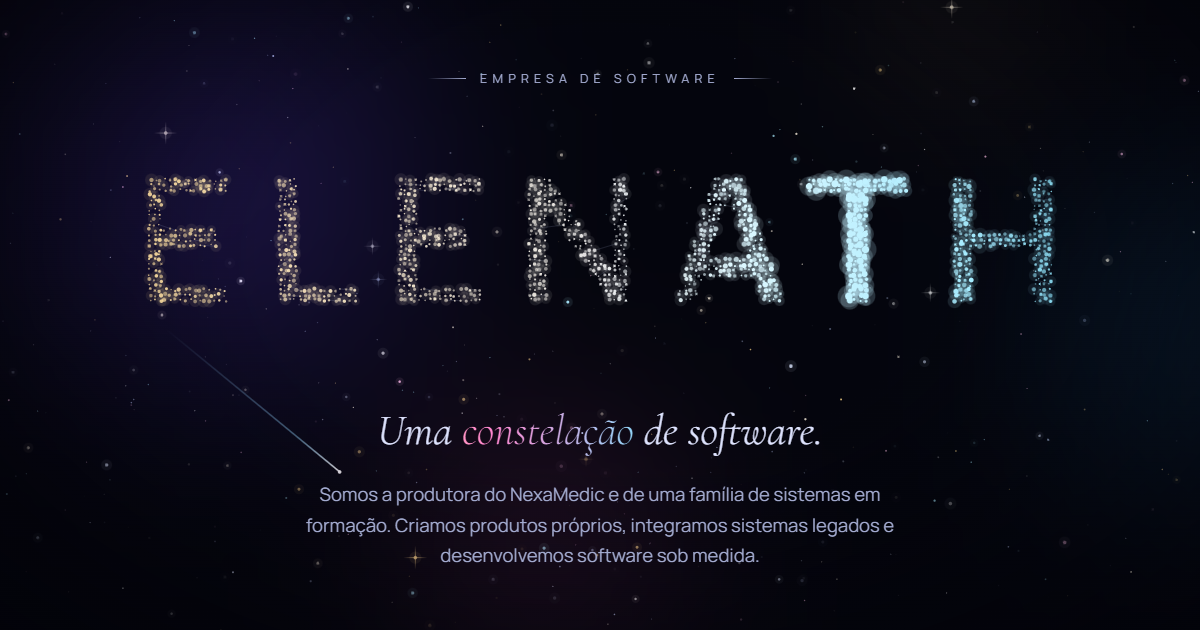
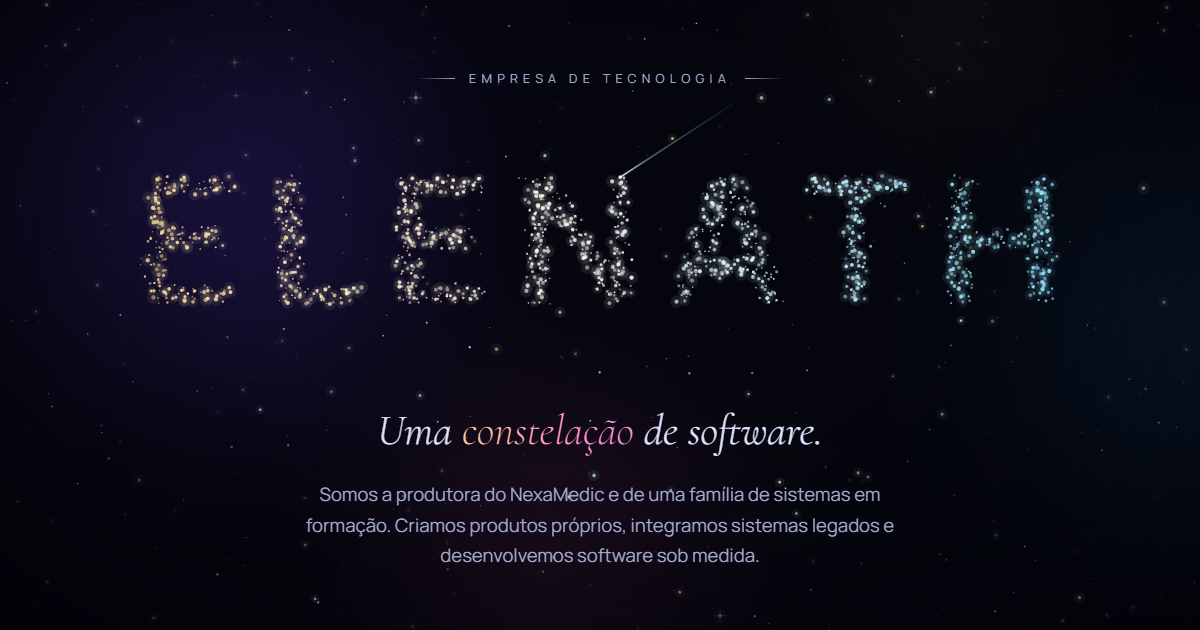
feat: Elenath como empresa de tecnologia

diff --git a/index.html b/index.html
@@ -4,7 +4,7 @@
 <meta charset="utf-8">
 <meta name="viewport" content="width=device-width, initial-scale=1, viewport-fit=cover">
 <title>Elenath · Uma constelação de software</title>
-<meta name="description" content="A Elenath é a empresa de software por trás do NexaMedic. Criamos produtos próprios, integramos sistemas legados e desenvolvemos software sob medida.">
+<meta name="description" content="A Elenath é a empresa de tecnologia por trás do NexaMedic. Criamos produtos próprios, integramos sistemas legados e desenvolvemos software sob medida.">
 <link rel="canonical" href="https://elenath.com.br/">
 <meta name="theme-color" content="#04050d">
 <meta name="color-scheme" content="dark">
@@ -30,7 +30,7 @@
   "name": "Elenath",
   "url": "https://elenath.com.br/",
   "logo": "https://elenath.com.br/apple-touch-icon.png",
-  "description": "Empresa de software: produtos próprios, integração com sistemas legados e desenvolvimento sob medida.",
+  "description": "Empresa de tecnologia: produtos próprios, integração com sistemas legados e desenvolvimento sob medida.",
   "email": "contato@nexamedic.com.br",
   "address": { "@type": "PostalAddress", "addressLocality": "Goiânia", "addressRegion": "GO", "addressCountry": "BR" },
   "brand": { "@type": "Brand", "name": "NexaMedic", "url": "https://www.nexamedic.com.br/" }
@@ -309,7 +309,7 @@ footer a:hover{color:#fff}
   <!-- HERÓI -->
   <section class="heroi">
     <div class="conteudo">
-      <span class="sobretitulo">Empresa de software</span>
+      <span class="sobretitulo">Empresa de tecnologia</span>
       <div class="nome-wrap">
         <canvas id="nome" aria-hidden="true"></canvas>
         <h1 class="nome-texto">ELENATH</h1>
@@ -350,7 +350,7 @@ footer a:hover{color:#fff}
     <div class="conteudo">
       <div class="rotulo">Frentes</div>
       <h2 class="dividir">Três frentes, <i>um mesmo céu.</i></h2>
-      <p class="intro revelar">Uma holding de software com produtos próprios em diferentes mercados, e um time que também constrói e integra sistemas para outras empresas.</p>
+      <p class="intro revelar">Uma holding de tecnologia com produtos próprios em diferentes mercados, e um time que também constrói e integra sistemas para outras empresas.</p>
 
       <div class="mapa revelar" id="mapa">
         <span class="dica-mapa">Passe o cursor nas estrelas</span>
